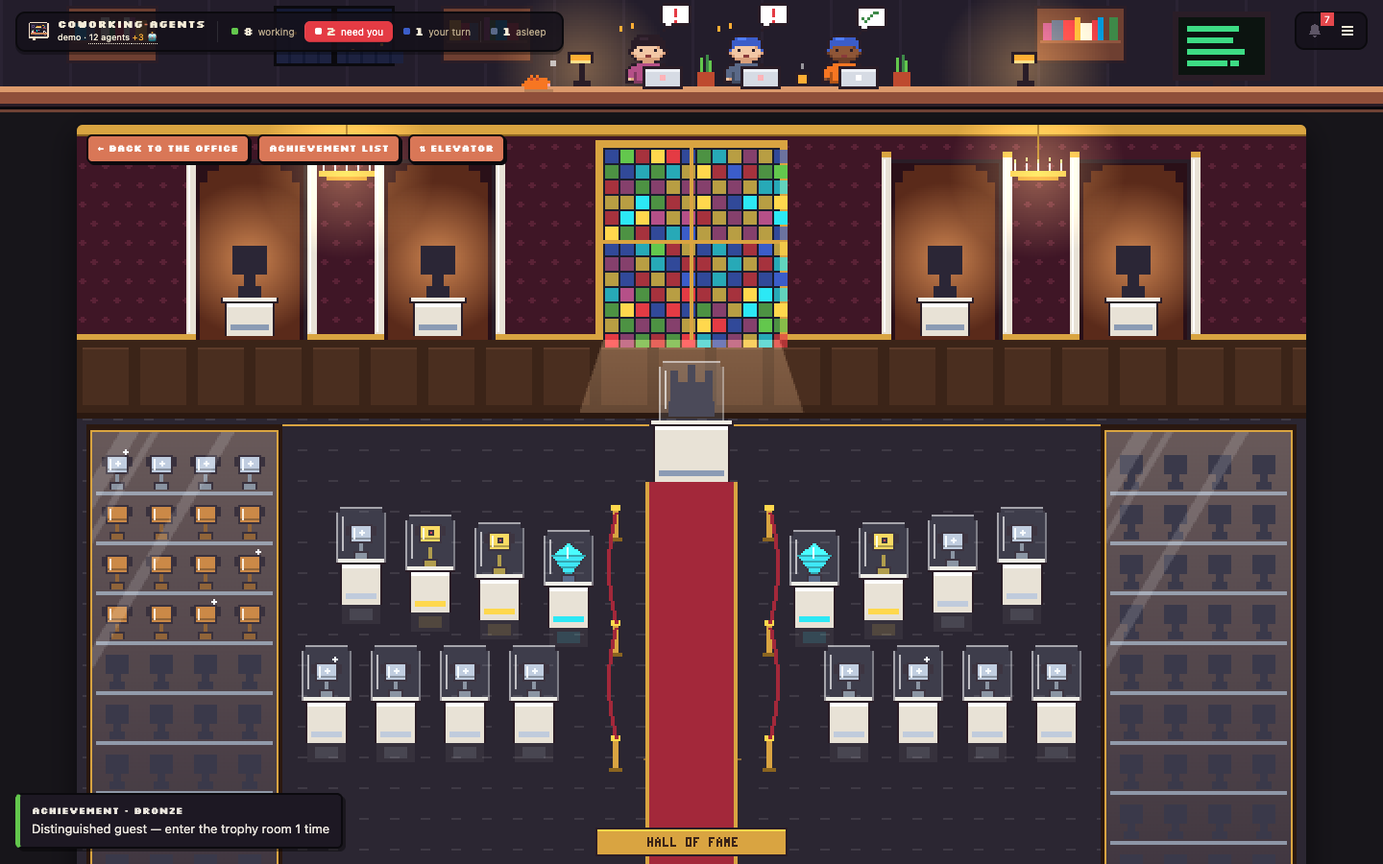
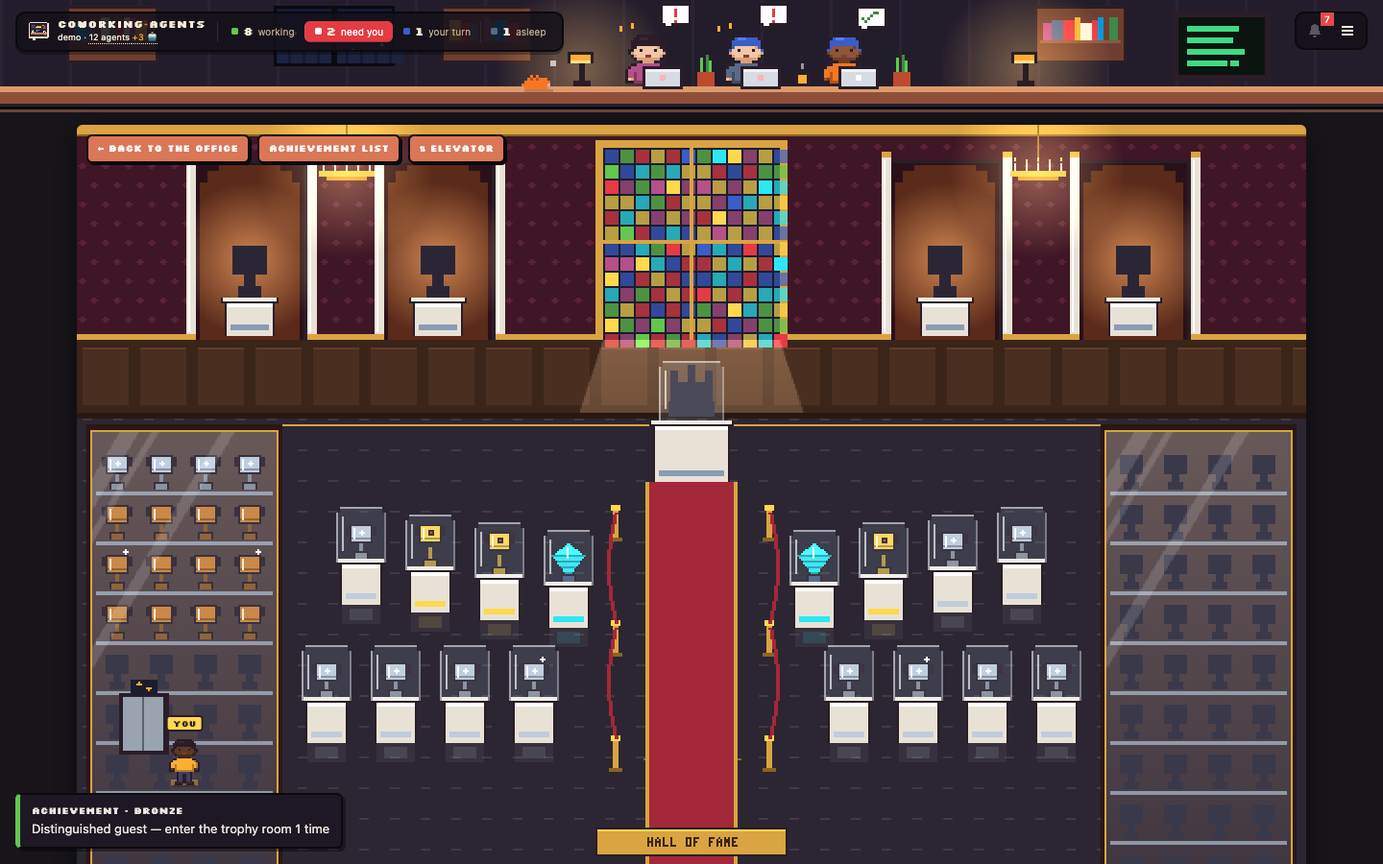
Library, lab and meeting room, and walking inside every room
The agents stay at their desks; each room shows who is doing that right
now (reading or browsing, running commands, working with helpers). In
any room you walk like in the office, Enter opens the agent next to you
and the elevator door takes you back.

Changed region(s): [[0.4375, 0.1556, 0.5938, 0.4044], [0.0625, 0.7778, 0.1562, 0.9333]]

diff --git a/public/js/places.js b/public/js/places.js
@@ -1,0 +1,177 @@
+'use strict';
+// ---------------- the library, the lab and the meeting room; walking inside every room ----------------
+// The agents stay at their desks in the office. A room shows who is doing that thing right now (measured from
+// their state): reading or browsing in the library, running commands in the lab, working with helpers in the
+// meeting room. You walk in like in the office (arrows/WASD or a click), Enter next to someone opens them,
+// and the elevator door in the corner takes you back.
+
+// --- walking in a room: its floor, where you arrive, the door back ---
+const ROOM_WALK = {
+  library: { x: 20, y: 150, w: 600, h: 228, door: { x: 26, y: 186 } },
+  lab: { x: 20, y: 140, w: 600, h: 238, door: { x: 26, y: 176 } },
+  meeting: { x: 20, y: 150, w: 600, h: 228, door: { x: 26, y: 186 } },
+  terrace: { x: 20, y: 186, w: 600, h: 192, door: { x: 26, y: 222 } },
+  servers: { x: 20, y: 200, w: 600, h: 178, door: { x: 26, y: 236 } },
+  trophy: { x: 20, y: 290, w: 600, h: 88, door: { x: 26, y: 326 } },
+};
+const vme = { x: 0, y: 0, path: [], flip: false, moving: false, room: '' };
+let vTag = null, vHint = null, vLastHint = '';
+const roomWalk = () => (trophyView && playerOn && ROOM_WALK[viewName]) || null;
+function roomUpdate(dt) {
+  const F = roomWalk(); if (!F) { if (vTag) vTag.hidden = vHint.hidden = true; return; }
+  if (vme.room !== viewName) Object.assign(vme, { x: F.door.x + 22, y: F.door.y - 6, path: [], room: viewName }); // in through the door
+  let dx = 0, dy = 0; const k = c => keysDown.has(c);
+  if (k('ArrowLeft') || k('a')) dx--; if (k('ArrowRight') || k('d')) dx++; if (k('ArrowUp') || k('w')) dy--; if (k('ArrowDown') || k('s')) dy++;
+  vme.moving = false;
+  const clamp = p => ({ x: Math.max(F.x, Math.min(F.x + F.w - 16, p.x)), y: Math.max(F.y, Math.min(F.y + F.h - 24, p.y)) });
+  if (dx || dy) {
+    vme.path = []; const len = Math.hypot(dx, dy), step = PLAYER_SPEED * (k('Shift') ? 2 : 1) * dt;
+    Object.assign(vme, clamp({ x: vme.x + dx / len * step, y: vme.y + dy / len * step })); vme.moving = true; if (dx) vme.flip = dx < 0;
+  } else if (vme.path.length) {
+    const w = vme.path[0], ddx = w.x - vme.x, ddy = w.y - vme.y, d = Math.hypot(ddx, ddy), step = PLAYER_SPEED * 1.4 * dt;
+    if (d <= step) { vme.x = w.x; vme.y = w.y; vme.path.shift(); } else { vme.x += ddx / d * step; vme.y += ddy / d * step; if (Math.abs(ddx) > .5) vme.flip = ddx < 0; }
+    vme.moving = true;
+  }
+  if (vme.moving) { const rc = cv.getBoundingClientRect(), py = rc.top + vme.y * S; if (py > innerHeight - 80) scrollBy({ top: py - (innerHeight - 160) }); else if (py < 130) scrollBy({ top: py - 190 }); } // the page follows you
+  if (!vTag) { vTag = document.createElement('span'); vHint = document.createElement('span'); vTag.className = 'me-tag'; vHint.className = 'me-hint'; overlay.append(vTag, vHint); }
+  vTag.hidden = false; vTag.textContent = T.walk.you; vTag.style.left = (vme.x + 8) * S + 'px'; vTag.style.top = (vme.y - 4) * S + 'px';
+  const n = roomNear(), label = n ? n.label : '';
+  vHint.hidden = !n; if (label !== vLastHint) { vLastHint = label; vHint.innerHTML = `<b>Enter ↵</b> ${esc(label)}`; }
+  if (n) { vHint.style.left = (vme.x + 8) * S + 'px'; vHint.style.top = (vme.y + 30) * S + 'px'; }
+}
+// what Enter does where you stand: talk to the agent next to you, or take the door back
+function roomNear() {
+  const F = roomWalk(); if (!F) return null;
+  const c = { x: vme.x + 8, y: vme.y + 12 };
+  let best = null;
+  for (const h of viewHits) if (h.id) { const d = Math.hypot(h.x + h.w / 2 - c.x, h.y + h.h / 2 - c.y); if (d < 30 && (!best || d < best.d)) best = { d, h }; }
+  if (best) { const p = data.people.find(x => x.id === best.h.id); if (p) return { label: T.walk.talk(best.h.who || p.name), run: () => { setView(null); showPerson(p.id); } }; }
+  if (Math.hypot(F.door.x + 8 - c.x, F.door.y - c.y) < 26) return { label: T.places.back, run: () => setView(null) };
+  return null;
+}
+// you, drawn last in the room, and the elevator door you came in through
+function drawRoomWalker(t) {
+  const F = roomWalk(); if (!F) return;
+  const d = F.door; r(d.x - 4, d.y - 30, 26, 32, PAL.ink); r(d.x - 2, d.y - 28, 10, 28, '#9aa3b0'); r(d.x + 9, d.y - 28, 10, 28, '#9aa3b0'); r(d.x + 8, d.y - 28, 1, 28, '#5a6270');
+  r(d.x + 2, d.y - 37, 14, 8, '#1b1d2e'); r(d.x + 5, d.y - 35, 3, 1, '#feae34'); r(d.x + 6, d.y - 36, 1, 1, '#feae34'); r(d.x + 10, d.y - 33, 3, 1, '#feae34'); r(d.x + 11, d.y - 32, 1, 1, '#feae34'); // the lift's ▲▼
+  ctx.fillStyle = 'rgba(255,216,77,.35)'; ctx.fillRect(vme.x + 1, vme.y + 21, 14, 3);
+  Art.drawStanding(vme.x, vme.y, youLook(), t, vme.moving); if (typeof drawOutfit === 'function') drawOutfit(vme.x, vme.y - 2);
+}
+document.addEventListener('keydown', e => {
+  if (!roomWalk() || !reportEl.hidden) return;
+  const tag = (e.target.tagName || '').toLowerCase(); if (tag === 'input' || tag === 'textarea') return;
+  const key = e.key.length === 1 ? e.key.toLowerCase() : e.key;
+  if (key === 'Shift') keysDown.add('Shift');
+  if (key.startsWith('Arrow') || (!e.metaKey && !e.ctrlKey && !e.altKey && key.length === 1 && 'wasd'.includes(key))) { keysDown.add(key); e.preventDefault(); e.stopImmediatePropagation(); }
+  if (e.key === 'Enter') { const n = roomNear(); if (n) { e.preventDefault(); n.run(); } }
+}, true);
+overlay.addEventListener('click', e => {
+  const F = roomWalk(); if (!F || e.target.closest('button,.tag')) return;
+  const rc = overlay.getBoundingClientRect(), x = (e.clientX - rc.left) / S - 8, y = (e.clientY - rc.top) / S - 14;
+  vme.path = [{ x: Math.max(F.x, Math.min(F.x + F.w - 16, x)), y: Math.max(F.y, Math.min(F.y + F.h - 24, y)) }];
+});
+
+// --- drawing helpers shared by the three rooms ---
+const plain = x => String(x || '').normalize('NFD').replace(/[\u0300-\u036f]/g, '').toUpperCase(); // the pixel font has no accents
+const roomName = (x, y, txt) => { const s = plain(txt).slice(0, 12), w = s.length * 4 + 4; r(x + 8 - w / 2, y, w, 7, '#000000aa'); pixText(x + 10 - w / 2, y + 1, s, '#f4ecd8'); };
+const roomSign = (x, y, txt, bg, fg) => { txt = plain(txt); const w = txt.length * 4 + 12; r(x - w / 2 - 2, y - 2, w + 4, 13, PAL.ink); r(x - w / 2, y, w, 9, bg); pixText(x - w / 2 + 6, y + 2, txt, fg); };
+const roomEmpty = (Wt, Ht, txt) => { txt = plain(txt); const w = txt.length * 4 + 16; r(Wt / 2 - w / 2, Ht - 46, w, 14, '#00000066'); pixText(Wt / 2 - w / 2 + 8, Ht - 42, txt, '#f4ecd8'); };
+const doingOf = p => (p.doing ? `${p.doing.tool || ''} ${p.doing.what || ''}`.trim() : '');
+
+// ---- the library: tall shelves, reading tables with green lamps; who is reading files or browsing the web ----
+function drawLibrary(t) {
+  const Wt = TROPHY_W, Ht = TROPHY_H, hits = [], L = T.places;
+  r(0, 0, Wt, 132, '#3b2a22'); for (let x = 0; x < Wt; x += 32) r(x, 0, 1, 132, '#2e2019');
+  const COLORS = ['#a8434f', '#3b5dc9', '#63c74d', '#feae34', '#7a5cff', '#2ce8f5', '#e8e2d6', '#b55088'];
+  for (let i = 0; i < 6; i++) {
+    const sx = 14 + i * 104, sw = 96; r(sx - 3, 8, sw + 6, 122, '#5a3a28'); r(sx, 10, sw, 118, '#2b1d16');
+    for (let s = 0; s < 4; s++) {
+      const by = 14 + s * 29; r(sx, by + 24, sw, 4, '#6b4a33');
+      for (let x = sx + 2, n = 0; x < sx + sw - 4; n++) { const h = hash(`bk${i}:${s}:${n}`), bw = 3 + h % 3, bh = 16 + (h >>> 3) % 7; r(x, by + 24 - bh, bw, bh, COLORS[(h >>> 6) % COLORS.length]); r(x, by + 24 - bh + 3, bw, 1, '#00000033'); x += bw + ((h >>> 9) % 4 === 0 ? 2 : 0); }
+    }
+  }
+  r(0, 132, Wt, Ht - 132, '#8a5a3c');
+  for (let y = 132; y < Ht; y += 8) for (let x = ((y / 8) % 2) * 12; x < Wt; x += 24) { r(x, y, 12, 8, '#93613f'); r(x, y + 7, 24, 1, '#6e4630'); }
+  r(150, 180, 340, 170, '#6e2433'); r(156, 186, 328, 158, '#8e3242'); for (let x = 166; x < 474; x += 12) r(x, 192, 6, 2, '#c9667a'), r(x, 336, 6, 2, '#c9667a');
+  roomSign(Wt / 2, 136, L.library.toUpperCase(), '#1b1622', '#ffd84d');
+  // a globe and an armchair in the corners
+  r(586, 300, 14, 14, '#3b8bff'); r(590, 302, 6, 4, '#63c74d'); r(592, 314, 2, 10, '#c9a34a'); r(586, 324, 14, 3, '#6b4a33');
+  r(560, 180, 34, 30, '#7a2e3a'); r(560, 176, 34, 8, '#a8434f'); r(556, 184, 6, 24, '#a8434f'); r(592, 184, 6, 24, '#a8434f');
+  // reading tables, two seats each, filled by who is reading (files) or browsing (web) right now
+  const tables = [[120, 210], [300, 210], [480, 210], [120, 300], [300, 300], [480, 300]];
+  const readers = (data ? data.people : []).filter(p => !p.leaving && ['read', 'web'].includes(p.state)).slice(0, 12);
+  readers.forEach((p, i) => {
+    const [tx, ty] = tables[i >> 1], sx = tx + (i % 2 ? 46 : 8), sy = ty - 22;
+    Art.drawFront(sx, sy, look(p.id), t, { legs: Art.LEGS_SIT, legsKey: 'sit' });
+    hits.push({ x: sx - 2, y: sy - 4, w: 20, h: 34, id: p.id, title: `${p.name} · ${T.states[p.state] || p.state}${doingOf(p) ? '\n' + doingOf(p) : ''}` });
+  });
+  for (const [tx, ty] of tables) {
+    r(tx - 2, ty - 2, 80, 20, PAL.ink); r(tx, ty, 76, 16, '#6b4a33'); r(tx, ty, 76, 3, '#8a6a4a'); r(tx + 4, ty + 16, 3, 12, '#4a3324'); r(tx + 69, ty + 16, 3, 12, '#4a3324');
+    r(tx + 34, ty - 12, 2, 12, '#c9a34a'); r(tx + 28, ty - 16, 14, 5, '#2f8f4e'); r(tx + 30, ty - 11, 10, 2, '#ffe9a0'); // the green banker's lamp
+    r(tx + 8, ty + 4, 12, 7, '#f4ecd8'); r(tx + 54, ty + 4, 12, 7, '#f4ecd8');
+  }
+  readers.forEach((p, i) => { const [tx, ty] = tables[i >> 1]; roomName(tx + (i % 2 ? 46 : 8), ty + 30, p.name); });
+  if (!readers.length) roomEmpty(Wt, Ht, L.noReaders);
+  viewHits = hits; drawRoomWalker(t);
+}
+
+// ---- the lab: benches of screens with scrolling output; who is running commands, tests or builds ----
+function drawLab(t) {
+  const Wt = TROPHY_W, Ht = TROPHY_H, hits = [], L = T.places;
+  r(0, 0, Wt, 124, '#d8dde6'); r(0, 118, Wt, 6, '#aab3c2'); for (let x = 0; x < Wt; x += 40) r(x, 0, 1, 118, '#c7cdd8');
+  r(0, 124, Wt, Ht - 124, '#9aa3b0'); for (let y = 124; y < Ht; y += 16) for (let x = ((y / 16) % 2) * 16; x < Wt; x += 32) r(x, y, 16, 16, '#a7b0bd');
+  // the CI wall: a big screen with pipeline stages
+  const runners = (data ? data.people : []).filter(p => !p.leaving && ['terminal', 'mcp'].includes(p.state)).slice(0, 12);
+  r(170, 14, 300, 84, PAL.ink); r(174, 18, 292, 76, '#0c1410');
+  pixText(184, 24, L.pipeline, '#62ff7a');
+  ['BUILD', 'TEST', 'LINT', 'DEPLOY'].forEach((s, i) => { const on = runners.length && ((t / 600 + i) | 0) % 4 !== 3; r(184 + i * 70, 44, 60, 16, on ? '#1f7a48' : '#1b2a22'); pixText(190 + i * 70, 49, s, on ? '#d8ffe0' : '#3a5a48'); });
+  for (let i = 0; i < 4; i++) r(184, 70 + i * 5, 40 + (hash('ci' + i + ((t / 900) | 0)) % 240), 2, '#2c6b44');
+  roomSign(Wt / 2, 128, L.lab.toUpperCase(), '#1b1622', '#62ff7a');
+  // shelves of equipment on the side walls
+  for (const sx of [24, 506]) { r(sx, 20, 110, 90, '#c7cdd8'); for (let s = 0; s < 3; s++) { r(sx, 44 + s * 28, 110, 3, '#7a8494'); for (let k = 0; k < 5; k++) r(sx + 6 + k * 21, 30 + s * 28, 14, 14, ['#3b5dc9', '#e43b44', '#63c74d', '#feae34', '#7a5cff'][(k + s) % 5]); } }
+  // benches: four stations each; an agent at a station sees its own output scroll on the screen
+  const benches = [190, 270, 350];
+  runners.forEach((p, i) => {
+    const b = benches[(i / 4) | 0], sx = 100 + (i % 4) * 130, sy = b - 26;
+    Art.drawFront(sx + 20, sy, look(p.id), t, { legs: Art.LEGS_SIT, legsKey: 'sit' });
+    hits.push({ x: sx + 18, y: sy - 4, w: 20, h: 34, id: p.id, title: `${p.name} · ${T.states[p.state] || p.state}${doingOf(p) ? '\n' + doingOf(p) : ''}` });
+  });
+  for (const b of benches) {
+    r(84, b - 2, 516, 18, PAL.ink); r(86, b, 512, 14, '#e8ecf2'); r(86, b, 512, 3, '#ffffff'); r(94, b + 14, 4, 14, '#7a8494'); r(586, b + 14, 4, 14, '#7a8494');
+    for (let k = 0; k < 4; k++) {
+      const sx = 100 + k * 130, i = benches.indexOf(b) * 4 + k, busy = !!runners[i];
+      r(sx + 48, b - 22, 40, 22, PAL.ink); r(sx + 50, b - 20, 36, 18, busy ? '#0c1410' : '#1b1d2e');
+      if (busy) for (let l = 0; l < 4; l++) r(sx + 52, b - 18 + l * 4, 6 + (hash('o' + i + l + ((t / 300) | 0)) % 28), 2, l === 3 ? '#62ff7a' : '#2c6b44');
+      r(sx + 64, b, 4, 2, '#7a8494');
+    }
+  }
+  runners.forEach((p, i) => roomName(100 + (i % 4) * 130 + 20, benches[(i / 4) | 0] + 18, p.name));
+  if (!runners.length) roomEmpty(Wt, Ht, L.noRunners);
+  viewHits = hits; drawRoomWalker(t);
+}
+
+// ---- the meeting room: a long table; an agent and the helpers it called sit together ----
+function drawMeetingRoom(t) {
+  const Wt = TROPHY_W, Ht = TROPHY_H, hits = [], L = T.places;
+  r(0, 0, Wt, 130, '#2a3446'); for (let x = 0; x < Wt; x += 80) { r(x, 0, 3, 130, '#1b2230'); ctx.fillStyle = 'rgba(160,200,255,.08)'; ctx.fillRect(x + 6, 6, 70, 118); }
+  r(0, 130, Wt, Ht - 130, '#4a5468'); for (let y = 130; y < Ht; y += 6) r(0, y, Wt, 1, '#434c5e');
+  // the whiteboard and a screen
+  r(60, 16, 220, 96, PAL.ink); r(63, 19, 214, 90, '#f4f4f0');
+  pixText(74, 26, L.plan, '#3b5dc9'); for (let i = 0; i < 5; i++) { r(74, 40 + i * 12, 6, 6, i < 3 ? '#63c74d' : '#c0cbdc'); r(86, 42 + i * 12, 60 + (hash('wb' + i) % 110), 2, '#5a6270'); }
+  r(360, 20, 220, 90, PAL.ink); r(363, 23, 214, 84, '#0c1830'); pixText(374, 30, L.helpersNow, '#7fb3e6');
+  roomSign(Wt / 2, 134, L.meeting.toUpperCase(), '#1b1622', '#7fb3e6');
+  // who meets: every agent working with helpers, then its helpers next to it
+  const leads = (data ? data.people : []).filter(p => !p.leaving && (p.subagents || []).length);
+  const seats = []; for (let i = 0; i < 7; i++) seats.push({ x: 130 + i * 56, y: 192, back: false }); for (let i = 0; i < 7; i++) seats.push({ x: 130 + i * 56, y: 268, back: true });
+  const crowd = []; for (const p of leads) { crowd.push({ p, lead: true }); for (const a of p.subagents) crowd.push({ p, a }); }
+  crowd.slice(0, seats.length).forEach((c, i) => {
+    const s = seats[i], lk = look(c.a ? c.p.id + ':' + c.a.id : c.p.id);
+    if (s.back) Art.drawSeatedBack(s.x, s.y, lk, t, {}); else Art.drawFront(s.x, s.y, lk, t, { legs: Art.LEGS_SIT, legsKey: 'sit' });
+    hits.push({ x: s.x - 2, y: s.y - 4, w: 20, h: 32, id: c.p.id, who: c.a ? `${c.a.type} (${c.p.name})` : c.p.name, title: c.a ? `🤖 ${c.a.type}: ${c.a.description || ''}${c.a.doing ? '\n' + c.a.doing : ''}\n← ${c.p.name}` : `${c.p.name} · ${T.states[c.p.state] || c.p.state}` });
+  });
+  r(112, 214, 416, 50, PAL.ink); r(114, 216, 412, 46, '#6b4a33'); r(114, 216, 412, 4, '#8a6a4a'); for (let i = 0; i < 6; i++) r(140 + i * 66, 228, 14, 9, '#f4ecd8');
+  crowd.slice(0, seats.length).forEach((c, i) => { const s = seats[i]; roomName(s.x, s.back ? s.y + 30 : s.y - 12, c.a ? c.a.type : c.p.name); });
+  if (crowd.length) pixText(374, 46, L.meetCount(leads.length, crowd.length - leads.length), '#d8e6ff');
+  if (!crowd.length) roomEmpty(Wt, Ht, L.noMeeting);
+  viewHits = hits; drawRoomWalker(t);
+}

diff --git a/public/js/i18n.js b/public/js/i18n.js
@@ -124,7 +124,7 @@ const I18N = {
     surprise: { hint: 'Uma surpresa! Clique para pegar', cake: 'Bolo surpresa na copa!', pigeon: 'Um pombo na janela!', ticket: 'Um bilhete dourado no chão!' },
     scoreboard: { title: 'Placar da semana entre as IAs', hours: 'horas', actions: 'ações', tokens: 'tokens' },
     share: { bestDay: 'Melhor dia', topAi: 'Mais usada', cost: 'Custo estimado', ready: 'Seu cartão da semana está pronto', readyWhy: 'Horas, ações, melhor dia, a IA mais usada e o custo da semana, numa imagem para compartilhar (Jornal → Cartão da semana).', card: 'Cartão da semana', visit: 'Foto para visita', week: 'Minha semana no escritório', hours: 'horas de agentes trabalhando', actions: 'ações', trophies: 'níveis de conquista · lendas', saved: 'Cartão salvo', visitSaved: 'Foto para visita salva', visitNote: 'Sem nomes, branches nem o nome do escritório.' },
-    elevator: { title: 'Elevador', sub: 'Escolha o andar: terraço, escritório, sala de troféus ou servidores.', terrace: '🌇 Terraço', trophy: '🏆 Sala de troféus', servers: '🖧 Sala de servidores', office: '🏢 Escritório', floor: n => `🏢 Andar ${n}` },
+    elevator: { title: 'Elevador', sub: 'Escolha o andar: terraço, escritório, troféus, servidores, biblioteca, laboratório ou reunião. Dentro das salas você anda com as setas.', terrace: '🌇 Terraço', trophy: '🏆 Sala de troféus', servers: '🖧 Sala de servidores', library: '📚 Biblioteca', lab: '🧪 Laboratório', meeting: '👥 Sala de reunião', office: '🏢 Escritório', floor: n => `🏢 Andar ${n}` },
     tasks: { tab: n => n ? `Tarefas (${n})` : 'Tarefas', sub: 'Crie uma tarefa e um agente trabalha nela em segundo plano. Você responde, aprova e revisa por aqui, sem abrir o terminal. Só as tarefas criadas aqui podem ser controladas; as sessões abertas por fora seguem só monitoradas.',
       newT: 'Nova tarefa', title: 'Título (opcional)', desc: 'O que fazer', folder: 'Pasta', agent: 'Agente', auto: 'Automático', profile: 'Perfil', prio: 'Prioridade', prios: ['', 'Baixa', 'Normal', 'Alta'],
       budget: 'Orçamento (US$, 0 = sem limite)', test: 'Comando de teste (opcional)', wt: 'Worktree separada (isola as alterações)', perm: 'Permissões', perms: { acceptEdits: 'Pode editar arquivos', plan: 'Só planejar', default: 'Pedir para tudo' },
@@ -349,7 +349,7 @@ const I18N = {
     surprise: { hint: 'A surprise! Click to grab it', cake: 'Surprise cake in the kitchen!', pigeon: 'A pigeon at the window!', ticket: 'A golden ticket on the floor!' },
     scoreboard: { title: "This week's AI scoreboard", hours: 'hours', actions: 'actions', tokens: 'tokens' },
     share: { bestDay: 'Best day', topAi: 'Used most', cost: 'Estimated cost', ready: 'Your weekly card is ready', readyWhy: "Hours, actions, best day, the AI used most and the week's cost, in one image to share (Newspaper → Weekly card).", card: 'Weekly card', visit: 'Visitor photo', week: 'My week at the office', hours: 'hours of agents at work', actions: 'actions', trophies: 'achievement tiers · legends', saved: 'Card saved', visitSaved: 'Visitor photo saved', visitNote: 'No names, branches or office name.' },
-    elevator: { title: 'Elevator', sub: 'Pick a floor: rooftop, office, trophy room or servers.', terrace: '🌇 Rooftop', trophy: '🏆 Trophy room', servers: '🖧 Server room', office: '🏢 Office', floor: n => `🏢 Floor ${n}` },
+    elevator: { title: 'Elevator', sub: 'Pick a floor: rooftop, office, trophies, servers, library, lab or meeting room. Inside the rooms you walk with the arrows.', terrace: '🌇 Rooftop', trophy: '🏆 Trophy room', servers: '🖧 Server room', library: '📚 Library', lab: '🧪 Lab', meeting: '👥 Meeting room', office: '🏢 Office', floor: n => `🏢 Floor ${n}` },
     tasks: { tab: n => n ? `Tasks (${n})` : 'Tasks', sub: 'Create a task and an agent works on it in the background. You answer, approve and review here, no terminal needed. Only tasks created here can be controlled; sessions opened elsewhere stay monitor-only.',
       newT: 'New task', title: 'Title (optional)', desc: 'What to do', folder: 'Folder', agent: 'Agent', auto: 'Automatic', profile: 'Profile', prio: 'Priority', prios: ['', 'Low', 'Normal', 'High'],
       budget: 'Budget (USD, 0 = no limit)', test: 'Test command (optional)', wt: 'Separate worktree (isolates the changes)', perm: 'Permissions', perms: { acceptEdits: 'May edit files', plan: 'Plan only', default: 'Ask for everything' },
@@ -632,6 +632,9 @@ Object.assign(I18N.en, { phoneOn: { how: 'See the agents and tasks and answer fr
 // the ☰ menu's groups
 Object.assign(I18N.pt, { menuGroups: { see: 'Ver', do: 'Fazer', prefs: 'Ajustes', autostart: 'Abrir com o computador' } });
 Object.assign(I18N.en, { menuGroups: { see: 'See', do: 'Do', prefs: 'Settings', autostart: 'Open with the computer' } });
+// the library, the lab and the meeting room
+Object.assign(I18N.pt, { places: { library: 'Biblioteca', lab: 'Laboratório', meeting: 'Sala de reunião', back: 'Voltar ao escritório', noReaders: 'NINGUEM LENDO AGORA', noRunners: 'NENHUM COMANDO RODANDO', noMeeting: 'NENHUMA REUNIAO AGORA', pipeline: 'PIPELINE', plan: 'PLANO', helpersNow: 'AJUDANTES AGORA', meetCount: (a, h) => `${a} AGENTE${a === 1 ? '' : 'S'} · ${h} AJUDANTE${h === 1 ? '' : 'S'}` } });
+Object.assign(I18N.en, { places: { library: 'Library', lab: 'Lab', meeting: 'Meeting room', back: 'Back to the office', noReaders: 'NOBODY READING NOW', noRunners: 'NO COMMANDS RUNNING', noMeeting: 'NO MEETING NOW', pipeline: 'PIPELINE', plan: 'PLAN', helpersNow: 'HELPERS NOW', meetCount: (a, h) => `${a} AGENT${a === 1 ? '' : 'S'} · ${h} HELPER${h === 1 ? '' : 'S'}` } });
 let T = I18N[lang];
 // sound is on by default; alerts follow the browser permission (asked on open). Only the buttons turn them off.
 let soundOn = store.get('sound', true);

diff --git a/public/js/views.js b/public/js/views.js
@@ -71,7 +71,7 @@ function drawTerrace(t) {
   });
   if (!relaxing.length) { r(Wt / 2 - 66, Ht - 40, 132, 14, '#00000055'); pixText(Wt / 2 - 58, Ht - 36, lang === 'pt' ? 'NINGUEM DE FOLGA' : 'NOBODY ON BREAK', '#f4ecd8'); }
   if (!day) { ctx.fillStyle = 'rgba(10,12,40,.25)'; ctx.fillRect(0, HZ, Wt, Ht - HZ); } // evening light on the deck
-  viewHits = hits;
+  viewHits = hits; if (typeof drawRoomWalker === 'function') drawRoomWalker(t);
 }
 
 // ---- the server room: two rows of glass racks, a NOC wall with live numbers, cold aisle, cable trays ----
@@ -118,7 +118,7 @@ function drawServers(t) {
   r(14, 160, 8, 18, '#e43b44'); r(15, 156, 6, 4, '#2a2a30'); r(16, 164, 4, 6, '#ffffff');
   for (let x = 0; x < Wt; x += 16) r(x, Ht - 6, 8, 6, '#ffd84d'), r(x + 8, Ht - 6, 8, 6, '#1b1622');
   if (!people.length) pixText(Wt / 2 - 30, 200, 'NO SESSIONS', '#c0cbdc');
-  viewHits = hits;
+  viewHits = hits; if (typeof drawRoomWalker === 'function') drawRoomWalker(t);
 }
 
 // ---- the elevator panel: floors, the terrace, the server room, the trophy room ----
@@ -132,6 +132,9 @@ function openElevator() {
     ${btn('data-go="trophy"', E.trophy, viewName === 'trophy')}
     ${floors.map((f, i) => btn(`data-go-floor="${i}"`, floors.length > 1 ? E.floor(i + 1) : E.office, !trophyView && floor === i)).reverse().join('')}
     ${btn('data-go="servers"', E.servers, viewName === 'servers')}
+    ${btn('data-go="library"', E.library, viewName === 'library')}
+    ${btn('data-go="lab"', E.lab, viewName === 'lab')}
+    ${btn('data-go="meeting"', E.meeting, viewName === 'meeting')}
   </div></div></div>`;
   liftEl.hidden = false; achBump('lifts');
 }

diff --git a/public/js/main.js b/public/js/main.js
@@ -24,10 +24,10 @@ function loop(t) {
   if (document.hidden) return; // tab not visible: draw nothing (browsers also slow rAF, this makes it zero) // schedule first: an error in one frame must not stop the animation
   if (data && spots) {
     const f = (t / 70) | 0; // ~14 frames per second, a pixel-art pace
-    if (f !== lastFrame || (playerOn && (me.moving || me.path.length || keysDown.size))) {
+    if (f !== lastFrame || (playerOn && (me.moving || me.path.length || keysDown.size || (trophyView && (vme.moving || vme.path.length))))) {
       const dt = lastT ? Math.min(.25, (t - lastT) / 1000) : 0;
       lastT = t; lastFrame = f;
-      if (trophyView) (viewName === 'terrace' ? drawTerrace : viewName === 'servers' ? drawServers : drawTrophyRoom)(t); else if (building) { if (f % 3 === 0) drawThumbs(t, dt * 3); } else drawScene(t, dt);
+      if (trophyView) { roomUpdate(dt); ({ terrace: drawTerrace, servers: drawServers, library: drawLibrary, lab: drawLab, meeting: drawMeetingRoom }[viewName] || drawTrophyRoom)(t); } else if (building) { if (f % 3 === 0) drawThumbs(t, dt * 3); } else drawScene(t, dt);
     }
   }
 }

diff --git a/public/js/rooms.js b/public/js/rooms.js
@@ -264,7 +264,7 @@ function drawTrophyRoom(t) {
   r(cx - 50, Ht - 34, 100, 15, PAL.ink); r(cx - 49, Ht - 33, 98, 13, '#d9a441'); r(cx - 49, Ht - 33, 98, 1, '#ffd84d'); pixText(cx - 23, Ht - 29, 'HALL OF FAME', '#3b2418');
   const got = st.reduce((x, a) => x + a.tier, 0), all = st.reduce((x, a) => x + a.max, 0);
   pixText(cx - 70, Ht - 12, `${got}/${all}`, '#8a6420'); { const l2 = `${legends.length} LEGEND`; pixText(cx + 70 - l2.length * 4, Ht - 12, l2, '#a3283a'); }
-  trophyHits = hits;
+  trophyHits = hits; if (typeof drawRoomWalker === 'function') drawRoomWalker(t);
 }
 // clicking a trophy: a card with the trophy large, its tier and how far the next one is
 const trophyCard = document.createElement('div');

diff --git a/public/index.html b/public/index.html
@@ -85,6 +85,7 @@
 <script src="js/timelapse.js"></script>
 <script src="js/archive.js"></script>
 <script src="js/watches.js"></script>
+<script src="js/places.js"></script>
 <script src="js/main.js"></script>
 </body>
 </html>

diff --git a/README.md b/README.md
@@ -275,6 +275,8 @@ Click the elevator (or press Enter next to it) to ride between floors, up to the
 
 ![The server room](docs/servers.png)
 
+
+**More rooms:** the **library** (who is reading files or browsing), the **lab** (who is running commands, tests or builds) and the **meeting room** (an agent with the helpers it called). The agents stay at their desks; each room shows who is doing that right now. You walk inside every room like in the office (arrows or WASD, Shift to run, or a click); Enter next to someone opens them, and the elevator door in the corner takes you back.
 ## Achievements, coins and the shop
 
 - **86 achievements**, each with five tiers from bronze to legend, measured from your history (hours, actions, streaks, nights, Friday evenings, weeks and months with work, tokens, cache, models, cost), the live office (parallel sessions, subagents, giant contexts, commits and pushes, repos and branches, quick answers, clean desks) and what you do in the office (walking, talking, the radio, the shop, customising). A few are secret.

diff --git a/CHANGELOG.md b/CHANGELOG.md
@@ -1,5 +1,9 @@
 # Changelog
 
+## Unreleased
+- Three new rooms in the elevator: the library (who is reading files or browsing the web, at reading tables), the lab (who is running commands, tests or builds, at benches with their output on screen) and the meeting room (an agent and the helpers it called, around the table). The agents stay at their desks; a room shows who is doing that right now
+- Walk inside every room, like in the office (arrows/WASD, Shift to run, or a click): Enter next to someone opens them, and the elevator door in the corner takes you back. The rooftop, the trophy room and the server room too
+
 ## 0.9.1 — 2026-10-14
 - ☰ → Settings → *Open with the computer*: the start-at-login switch right in the menu, with its green dot (it also stays in Personalise)
 - The browser tab shows the new app icon (the agent at its desk) instead of the old face; the menu bar keeps the small face, which reads best at that size
